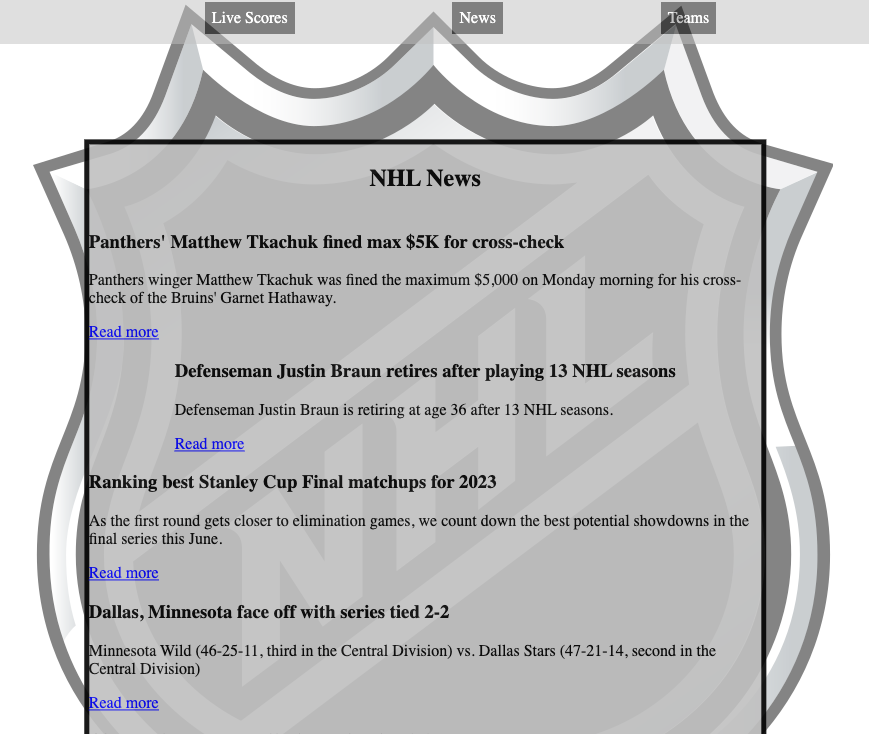
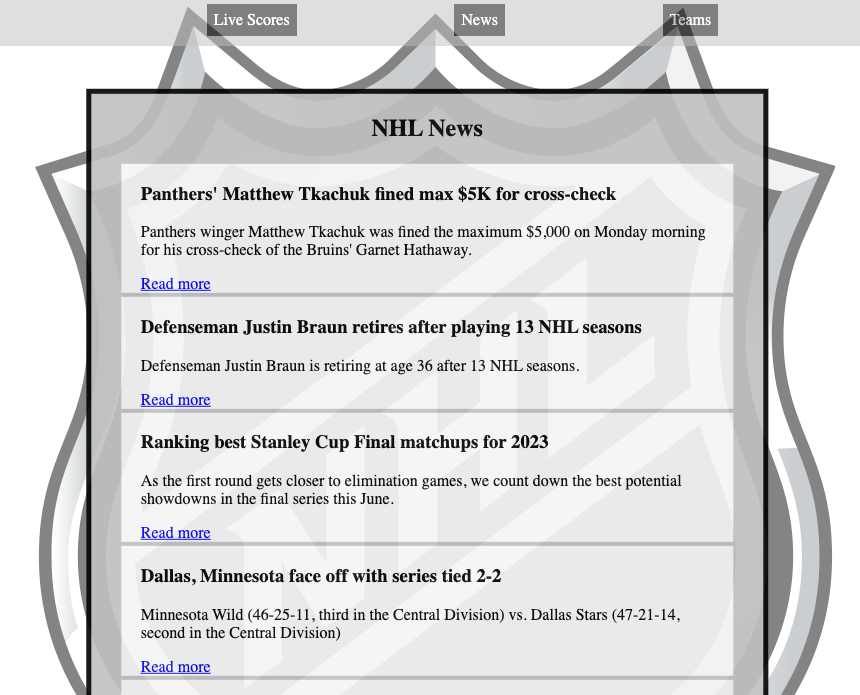
fix css on news page, add more into my readme

diff --git a/src/components/news.jsx b/src/components/news.jsx
@@ -33,9 +33,9 @@ const NHLNews = () => {
     <div className="news">
       <img className="backgroundImg" src={background} alt="NHL LOGO" />
       <div className="newsCard" >
-      <h2>NHL News</h2>
+      <h2 className= "newsTitle" >NHL News</h2>
       {news.map((article, index) => (
-        <div key={index}>
+        <div className="article" key={index}>
           <h3>{article.headline}</h3>
           <p>{article.description}</p>
           <a href={article.links.web.href} target="_blank" rel="noreferrer">Read more</a>

diff --git a/src/index.css b/src/index.css
@@ -190,14 +190,21 @@ nav ul li a:hover {
   position: absolute;
   top: 50%;
   left: 50%;
-  justify-content: center;
-  flex-wrap: wrap;
+  flex-direction: column;
   width: 75%;
   margin: 20px;
   z-index: 1;
-  transform: translate(-54%, -40%);
-
+  transform: translate(-54%, -45%);
   
+}
+.newsTitle{
+  text-align: center;
+}
+
+.article{
+  margin: 2px 30px;
+  padding: 0px 20px;
+  background-color:whitesmoke
 }
 
 @media only screen and (max-width: 768px) {

diff --git a/README.md b/README.md
@@ -12,8 +12,36 @@ This is a React app that displays live NHL scores, odds, news and a full list of
 * Navigate to `http://localhost:3000` in your browser to view the application
 
 ## What-I-Learned
-* 
+* The first the I learned in creating this app is finding a great API is probably the most difficult part.
+* I also enjoyed learning about a timeHandler and how to convert time from UTC into EST using this method: 
+```
+    let timeHandler = (time) => {
+    let date = new Date(time);
+    let options = {
+      month: "2-digit",
+      day: "2-digit",
+      year: "numeric",
+      hour: "numeric",
+      minute: "numeric",
+      hour12: true,
+      timeZone: "America/New_York",
+    };
+    let formattedDate = date.toLocaleString("en-US", options);
+    formattedDate += " EST";
+    return formattedDate;
+  };
+```
 
+* Being that my API has data the disappears when a game starts. I enjoyed learning the aspects of local storage and how I can save the data to display once it is already gone from the API array:
+```
+  oddsArr.forEach((gameName) => {
+    localStorage.setItem(`Odds: ${gameName}`, gameName);
+  });
+  overUnderArr.forEach((gameName) => {
+    localStorage.setItem(`Over/Under: ${gameName}`, gameName);
+  });
+  ```
+  
 ### Features
 
 * Displays the NHL logo as a background image
